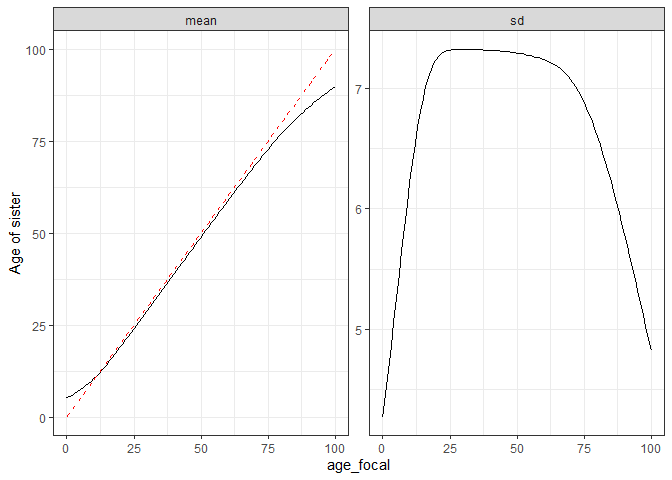
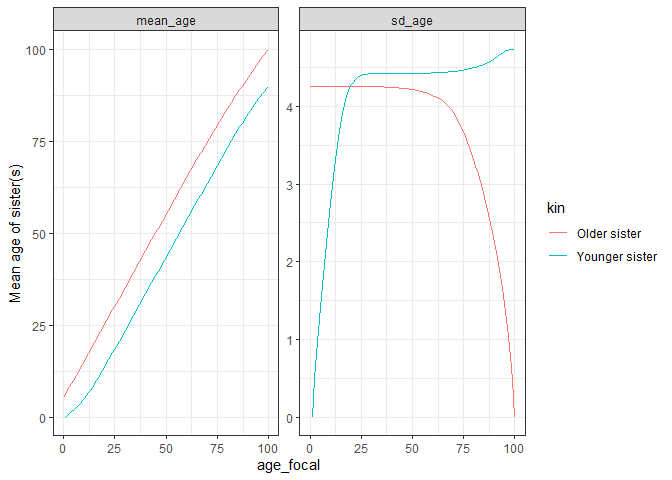
new exercise

diff --git a/README.md b/README.md
@@ -435,12 +435,32 @@ see:
 Sweden and a female-only population. All exercises can be completed
 using datasets included in DemoKin.**
 
-## Exercise 1. Age of kin
+## Exercise 1. Offspring availability and loss
 
-The output of `DemoKin::kin` includes information on the age of Focal’s
-relatives (in the columns `kin_summary$mean_age` and
-`kin_summary$$sd_age`). For example, this allows us to determine the age
-of Focal’s sisters over the lifecourse of Focal:
+Use `DemoKin` (assuming time-invariant rates at the 2010 levels in
+Sweden and a female-only population) to explore offspring survival and
+loss for mothers.
+
+**Answer**: What is the expected number of surviving offspring for an
+average woman aged 65?
+
+``` r
+# Write your code here
+```
+
+**Answer**: What is the cumulative number of offspring deaths
+experienced by an average woman who survives to age 65?
+
+``` r
+# Write your code here
+```
+
+## Exercise 2. Mean age of kin
+
+The output of `DemoKin::kin` includes information on the average age of
+Focal’s relatives (in the columns `kin_summary$mean_age` and
+`kin_summary$$sd_age`). For example, this allows us to determine the
+mean age of Focal’s sisters over the lifecourse of Focal:
 
 ``` r
 swe_2015$kin_summary %>%  
@@ -451,13 +471,13 @@ swe_2015$kin_summary %>%
   ggplot(aes(x = age_focal, y = value, colour = kin)) +
   geom_line() +
   facet_wrap(~name, scales = "free") +
-  labs(y = "Age of sister") +
+  labs(y = "Mean age of sister(s)") +
   theme_bw()
 ```
 
     ## Warning: Removed 1 row(s) containing missing values (geom_path).
 
-![](README_files/figure-gfm/unnamed-chunk-19-1.png)<!-- -->
+![](README_files/figure-gfm/unnamed-chunk-21-1.png)<!-- -->
 
 **Instructions**
 
@@ -465,76 +485,21 @@ Compute the the mean and SD of the age of Focal’s sisters over the ages
 of Focal **by hand** (i.e., using the raw output in `kin_full`). Plot
 separately (1) for younger and older sisters, (2) and for all sisters.
 
-**Solution**
-
 First, get mean and SD of ages of sisters distinguishing between younger
 and older sisters:
 
 ``` r
-# First, get vectors for a given year
-swe_surv_x <- DemoKin::swe_px[,"2010"]
-swe_asfr_x <- DemoKin::swe_asfr[,"2010"]
-# Run kinship models
-swe_x <- kin(U = swe_surv_x, f = swe_asfr_x, time_invariant = TRUE, output_kin = c("os", "ys"))
-
-# For plotting
-dummy <- data.frame(
-      age_focal = 0:100
-      , name = "mean"
-      , value = 0:100
-      , kin = "os"
-      )
-
-# Younger and older sister separately
-swe_x$kin_full %>% 
-  rename_kin() %>% 
-  group_by(age_focal, kin) %>% 
-  summarise(
-    mean = sum(0:100*living)/sum(living)
-    , sd = sqrt(sum(living * (0:100 - mean)^2) / sum(living))
-  ) %>% 
-  ungroup() %>% 
-  pivot_longer(cols = mean:sd) %>% 
-  ggplot(aes(x = age_focal, y = value, colour = kin)) +
-  geom_line() +
-  geom_line(data = dummy, colour = "black", linetype = "dashed") +
-  # geom_abline(slope = 1, linetype = "dashed") +
-  facet_wrap(~name, scales = "free") +
-  labs(y = "Age of sister") +
-  theme_bw()
+# Write your code here
 ```
-
-    ## `summarise()` has grouped output by 'age_focal'. You can override using the
-    ## `.groups` argument.
-
-    ## Warning: Removed 1 row(s) containing missing values (geom_path).
-
-![](README_files/figure-gfm/unnamed-chunk-20-1.png)<!-- -->
 
 Second, get ages of all sisters, irrespective of whether they are older
 or younger:
 
 ``` r
-# All sister together
-swe_x$kin_full %>% 
-  group_by(age_focal) %>% 
-  summarise(
-    mean = sum(0:100*living)/sum(living)
-    , sd = sqrt(sum(living * (0:100 - mean)^2) / sum(living))
-  ) %>% 
-  ungroup() %>% 
-  pivot_longer(cols = mean:sd) %>% 
-  ggplot(aes(x = age_focal, y = value)) +
-  geom_line() +
-    geom_line(data = dummy, colour = "red", linetype = "dashed") +
-  facet_wrap(~name, scales = "free") +
-  labs(y = "Age of sister") +
-  theme_bw()
+# Write your code here
 ```
 
-![](README_files/figure-gfm/unnamed-chunk-21-1.png)<!-- -->
-
-## Exercise 2. Living mother
+## Exercise 3. Living mother
 
 What is the probability that Focal (an average Swedish woman) has a
 living mother over Focal’s live?
@@ -555,31 +520,11 @@ mother is alive when she gives birth), and goes monotonically to zero.
 **Answer:** What is the probability that Focal has a living mother when
 Focal turns 70 years old?
 
-**Solution:**
-
 ``` r
-# First, get vectors for a given year
-swe_surv_x <- DemoKin::swe_px[,"2010"]
-swe_asfr_x <- DemoKin::swe_asfr[,"2010"]
-# Run kinship models
-swe_x <- kin(U = swe_surv_x, f = swe_asfr_x, time_invariant = TRUE, output_kin = "m")
-
-swe_x$kin_summary %>% 
-  ggplot(aes(x = age_focal, y = count_living)) +
-  geom_line() +
-  labs(x = "Focal's age", y = "M1(a)") +
-  theme_bw()
+# Write your code here
 ```
 
-![](README_files/figure-gfm/unnamed-chunk-22-1.png)<!-- -->
-
-``` r
-swe_x$kin_summary$count_living[71]
-```
-
-    ## [1] 0.0538275
-
-## Exercise 3. Sandwich Generation
+## Exercise 4. Sandwich Generation
 
 The ‘Sandwich Generation’ refers to persons who are squeezed between
 frail older parents and young dependent children and are assumed to have
@@ -591,7 +536,7 @@ exercise, we consider an individual to be ‘sandwiched’ if they have at
 least one child aged ![15](https://latex.codecogs.com/png.latex?15 "15")
 or younger and a parent or parent within
 ![5](https://latex.codecogs.com/png.latex?5 "5") years of death.
-Alburez‐Gutierrez, Mason, and Zagheni(2021) defined the probability
+Alburez‐Gutierrez, Mason, and Zagheni (2021) defined the probability
 that an average woman aged ![a](https://latex.codecogs.com/png.latex?a
 "a") is ‘sandwiched’ in a stable female population as:
 
@@ -632,48 +577,9 @@ female-only population.
 **Answer:** At which age is Focal at a highest risk of finding herself
 sandwiched between young dependent children and fragile older parents?
 
-**Solution:**
-
 ``` r
-# First, get vectors for a given year
-swe_surv_x <- DemoKin::swe_px[,"2010"]
-swe_asfr_x <- DemoKin::swe_asfr[,"2010"]
-# Run kinship models
-swe_x <- kin(U = swe_surv_x, f = swe_asfr_x, time_invariant = TRUE, output_kin = "m")
-
-M1 <- swe_x$kin_summary$count_living
-
-# Implement equation: 
-
-ages <- 15:75
-  
-S <- numeric(0)
-
-for (a in ages){
-  a_minus_x <- a - 1:15
-  a_minus_x <- a_minus_x[a_minus_x > 0]
-
-  fert_risk <- 1 - prod(1 - swe_asfr_x[a_minus_x])
-
-  M1a <- M1[a]
-
-  mom_dies <- 1 - M1[a + 5]/M1[a]
-
-  Sa <- fert_risk * M1a * mom_dies
-  S <- c(S, Sa)
-}
-
-max_S <- ages[max(S) == S]
-
-data.frame(age_focal = ages, y = S) %>% 
-  ggplot(aes(x = age_focal, y = S)) +
-  geom_line() +
-  geom_vline(xintercept = max_S, colour = "red") +
-  labs(x = "Focal's age", y = "Probability of Sandwich S(a)") +
-  theme_bw()
+# Write your code here
 ```
-
-![](README_files/figure-gfm/unnamed-chunk-24-1.png)<!-- -->
 
 # 7\. Appendix
 
@@ -739,7 +645,7 @@ swe_2015$kin_full %>%
 
     ## Warning: Removed 87 row(s) containing missing values (geom_path).
 
-![](README_files/figure-gfm/unnamed-chunk-26-1.png)<!-- -->
+![](README_files/figure-gfm/unnamed-chunk-27-1.png)<!-- -->
 
 # 8\. Session info
 
